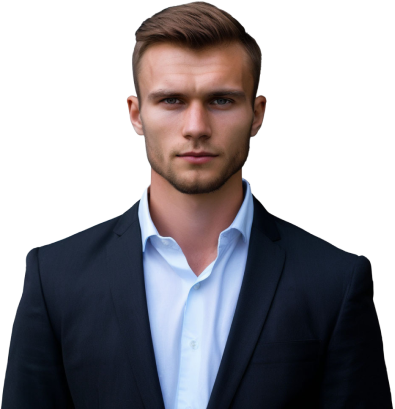
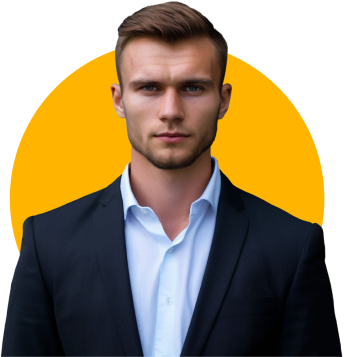
1

diff --git a/css/index.css b/css/index.css
@@ -719,9 +719,10 @@ h2 span {
   position: absolute;
   top: -22px;
   left: -435px;
-  background: url(../images/consultation-img-bg.png);
+  /* background: url(../images/consultation-img-bg.png); */
   background-repeat: no-repeat;
   background-position: bottom;
+  z-index: -1;
 }
 .consultation__icon-1 {
   width: auto;
